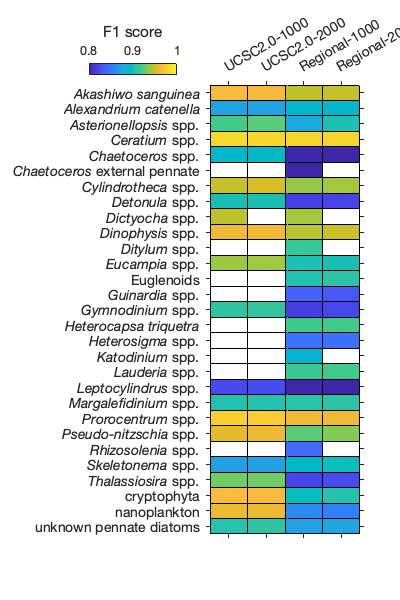
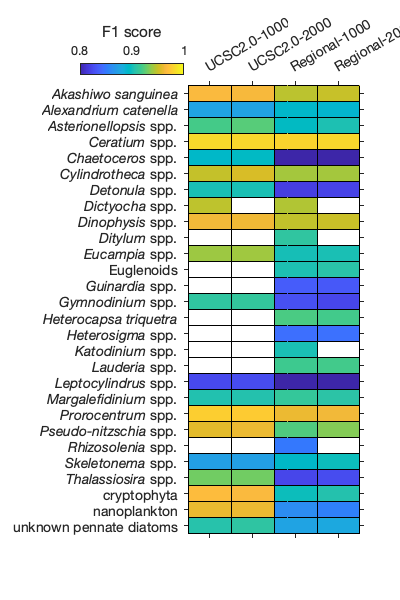
new summary files

Changed region(s): [[0.03, 0.03, 1.0, 0.9], [0.24, 0.03, 0.42, 0.09]]

diff --git a/IFCB-Tools/plot_classifier_performance.m b/IFCB-Tools/plot_classifier_performance.m
@@ -1,11 +1,6 @@
 clear;
 Mac=1;
-%name='16Feb2022_nocentric_ungrouped_PN';
-%name='23Feb2022_nonano';
-%name='24Feb2022';
-%name='24Feb2022_noUCSCdinophysis';
-%name='09May2022';
-name='14Jun2022_regional2000';
+name='16Jun2022_regional1000';
 
 if Mac
     basepath = '~/Documents/MATLAB/bloom-baby-bloom/';    
@@ -20,6 +15,7 @@ addpath(genpath(basepath));
 
 load([filepath 'performance_classifier_' name],'topfeat','all','opt','c_all','c_opt','NOAA','UCSC','OSU');
 maxn=round(max([all.total]),-2);
+[~,class]=get_class_ind( all.class, 'all', basepath);
 
 %% plot stacked total in set and F1 score comparison
 % figure('Units','inches','Position',[1 1 8 6],'PaperPositionMode','auto');
@@ -40,8 +36,7 @@ maxn=round(max([all.total]),-2);
 %     lh.Position=[hp(1) hp(2)+.16 hp(3) hp(4)]; hold on    
 %  
 
-[~,class]=get_class_ind( all.class, 'all', basepath);
-figure('Units','inches','Position',[1 1 7 3],'PaperPositionMode','auto');
+figure('Units','inches','Position',[1 1 7 4],'PaperPositionMode','auto');
 col=[(brewermap(3,'Set2'));[.1 .1 .1]]; 
 b = bar([NOAA.total UCSC.total OSU.total],'stack','linestyle','none','Barwidth',.7);
 for i=1:3
@@ -51,6 +46,7 @@ set(gca,'xlim',[0.5 (length(class)+.5)], 'xtick', 1:length(class), 'ylim',[0 max
     'xticklabel', class,'tickdir','out');
 ylabel('total images in set'); hold on
 xtickangle(45);
+lh=legend('NWFSC','UCSC','OSU','Location','NorthOutside');
 
 set(gcf,'color','w');
 print(gcf,'-dpng','-r100',[figpath 'F1score_UCSC_OSU_CCS' name '.png']);
@@ -97,8 +93,8 @@ fx_unclass=sum(c_all(:,end))./sum(total)   % what fraction of images went to unc
 
 C = bsxfun(@rdivide, cplot, total); C(isnan(C)) = 0;
 pcolor(C); col=flipud(brewermap([],'Spectral')); colormap([ones(4,3); col]); 
-set(gca, 'ytick', 1:length(class), 'yticklabel', class,...
-    'xtick', 1:length(class), 'xticklabel',class)
+set(gca, 'ytick', .5:1:length(class)+.5, 'yticklabel', class,...
+    'xtick', .5:1:length(class)+.5, 'xticklabel',class)
 axis square;  col=colorbar; caxis([0 1])
 colorTitleHandle = get(col,'Title');
 titleString = {'Fx of test'; 'images/class'};
@@ -124,8 +120,8 @@ fx_unclass=sum(c_opt(:,end))./sum(total) % what fraction of images went to uncla
 
 C = bsxfun(@rdivide, cplot, total); C(isnan(C)) = 0;
 pcolor(C); col=flipud(brewermap([],'Spectral')); colormap([ones(4,3); col]); 
-set(gca, 'ytick', 1:length(classU), 'yticklabel', classU,...
-    'xtick', 1:length(classU), 'xticklabel',classU)
+set(gca, 'ytick', .5:1:length(classU)+.5, 'yticklabel', classU,...
+    'xtick', .5:1:length(classU)+.5, 'xticklabel',classU)
 axis square;  col=colorbar; caxis([0 1])
 colorTitleHandle = get(col,'Title');
 titleString = {'Fx of test'; 'images/class'};

diff --git a/IFCB-Tools/compare_regional_local_classifier.m b/IFCB-Tools/compare_regional_local_classifier.m
@@ -2,7 +2,7 @@ clear;
 Mac=1;
 nameL1='15Jun2022_UCSC1000';
 nameL2='14Jun2022_UCSC2000';
-nameR1='15Jun2022_regional1000';
+nameR1='16Jun2022_regional1000';
 nameR2='14Jun2022_regional2000';
 
 if Mac
